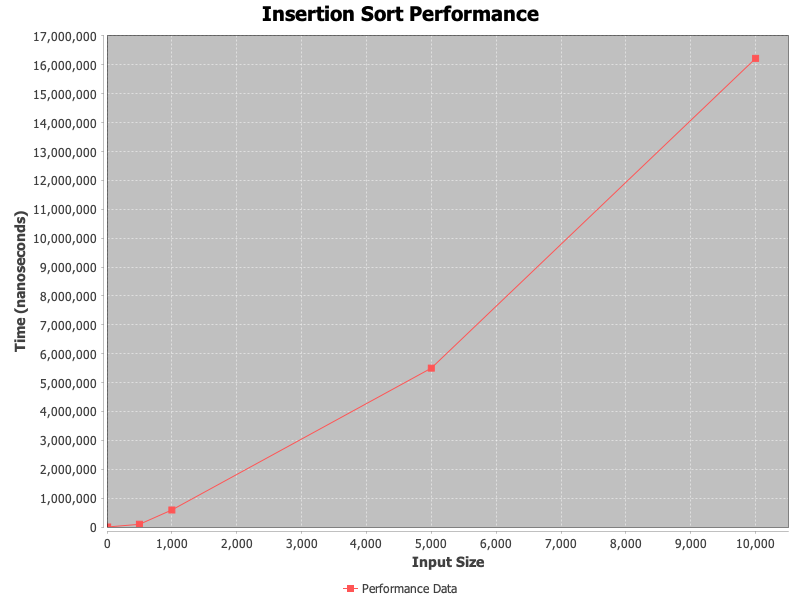
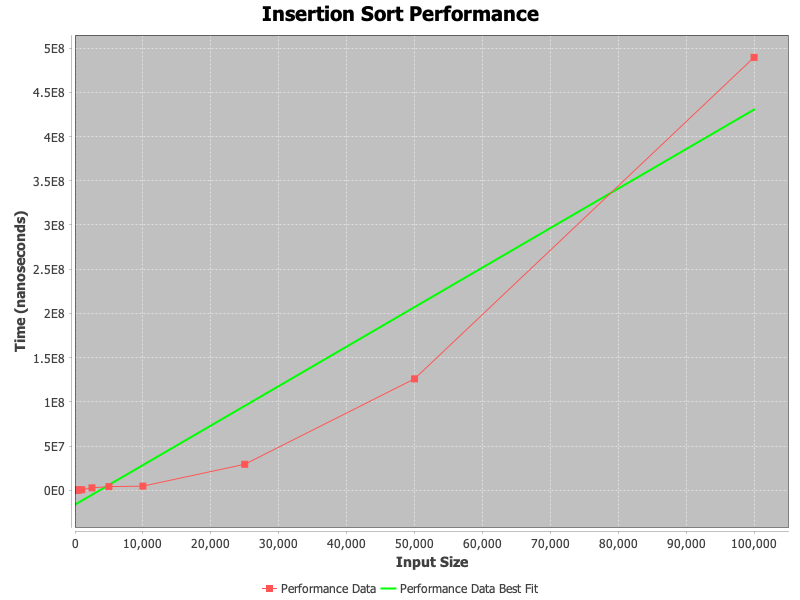
add best-fit line

diff --git a/assignment1/src/Main.java b/assignment1/src/Main.java
@@ -7,10 +7,12 @@ import org.jfree.chart.JFreeChart;
 import org.jfree.chart.plot.PlotOrientation;
 import org.jfree.chart.plot.XYPlot;
 import org.jfree.chart.renderer.xy.XYLineAndShapeRenderer;
+import org.jfree.data.statistics.Regression;
 import org.jfree.data.xy.XYDataset;
 import org.jfree.data.xy.XYSeries;
 import org.jfree.data.xy.XYSeriesCollection;
 
+import java.awt.*;
 import java.io.File;
 import java.io.IOException;
 import java.util.HashMap;
@@ -19,7 +21,8 @@ import java.util.Random;
 
 public class Main {
     public static void main(String[] args) {
-        int[] inputSizes = {10, 500, 1000, 5000, 10000};
+        int[] inputSizes = {5, 10, 50, 100, 250, 500, 1000, 2500, 5000, 10000, 25000, 50000, 100000};
+
         int[][] testArrays = generateTestArrays(inputSizes);
 
         Map<String, Map<Integer, Long>> algorithmResults = new HashMap<>();
@@ -38,7 +41,7 @@ public class Main {
         // testAlgorithm("Quick Sort", inputSizes, testArrays, Main::quickSort, algorithmResults);
 
         createScatterPlot(algorithmResults.get("Insertion Sort"), "Insertion Sort Performance", "Input Size", "Time (nanoseconds)", "InsertionSortScatterPlot.png");
-         createScatterPlot(algorithmResults.get("Merge Sort"), "Merge Sort Performance", "Input Size", "Time (nanoseconds)", "MergeSortScatterPlot.png");
+        createScatterPlot(algorithmResults.get("Merge Sort"), "Merge Sort Performance", "Input Size", "Time (nanoseconds)", "MergeSortScatterPlot.png");
         // createScatterPlot(algorithmResults.get("Quick Sort"), "Quick Sort Performance", "Input Size", "Time (nanoseconds)", "QuickSortScatterPlot.png");
 
         createCombinedScatterPlot(algorithmResults, "Combined Sorting Algorithms Performance", "Input Size", "Time (nanoseconds)", "CombinedSortingAlgorithmsScatterPlot.png");
@@ -83,7 +86,7 @@ public class Main {
             series.add(entry.getKey(), entry.getValue());
         }
 
-        XYDataset dataset = new XYSeriesCollection(series);
+        XYSeriesCollection dataset = new XYSeriesCollection(series);
         JFreeChart chart = ChartFactory.createScatterPlot(
                 title,
                 xAxisLabel,
@@ -98,6 +101,8 @@ public class Main {
         XYPlot plot = chart.getXYPlot();
         XYLineAndShapeRenderer renderer = new XYLineAndShapeRenderer();
         plot.setRenderer(renderer);
+
+        addBestFitLine(dataset, renderer, 0, Color.GREEN);
 
         try {
             ChartUtils.saveChartAsPNG(new File(filename), chart, 800, 600);
@@ -141,4 +146,47 @@ public class Main {
             System.err.println("Error while saving chart as PNG.");
         }
     }
+
+    /**
+     * Adds a best fit line for a specific series in the dataset
+     *
+     * @param dataset The dataset containing the series
+     * @param renderer The renderer to configure for the best fit line
+     * @param seriesIndex The index of the series to add a best fit line for
+     * @param lineColor The color to use for the best fit line
+     */
+    private static void addBestFitLine(XYSeriesCollection dataset, XYLineAndShapeRenderer renderer, int seriesIndex, Color lineColor) {
+        // Calculate regression
+        double[] coefficients = Regression.getOLSRegression((XYDataset)dataset, seriesIndex);
+        double slope = coefficients[1];
+        double intercept = coefficients[0];
+
+        // Get series key to name the best fit line
+        Comparable<?> seriesKey = dataset.getSeriesKey(seriesIndex);
+        XYSeries bestFitLine = new XYSeries(seriesKey + " Best Fit");
+
+        // Find min and max x values to draw the line
+        double minX = Double.MAX_VALUE;
+        double maxX = Double.MIN_VALUE;
+        for (int j = 0; j < dataset.getItemCount(seriesIndex); j++) {
+            double x = dataset.getXValue(seriesIndex, j);
+            if (x < minX) minX = x;
+            if (x > maxX) maxX = x;
+        }
+
+        // Add points for the best fit line
+        bestFitLine.add(minX, intercept + slope * minX);
+        bestFitLine.add(maxX, intercept + slope * maxX);
+
+        // Add the best fit line to the dataset
+        dataset.addSeries(bestFitLine);
+
+        // Configure the renderer for the best fit line
+        int bestFitIndex = dataset.getSeriesCount() - 1;
+        renderer.setSeriesLinesVisible(bestFitIndex, true);
+        renderer.setSeriesShapesVisible(bestFitIndex, false);
+        renderer.setSeriesPaint(bestFitIndex, lineColor);
+        renderer.setSeriesStroke(bestFitIndex, new BasicStroke(2.0f));
+    }
 }
+
